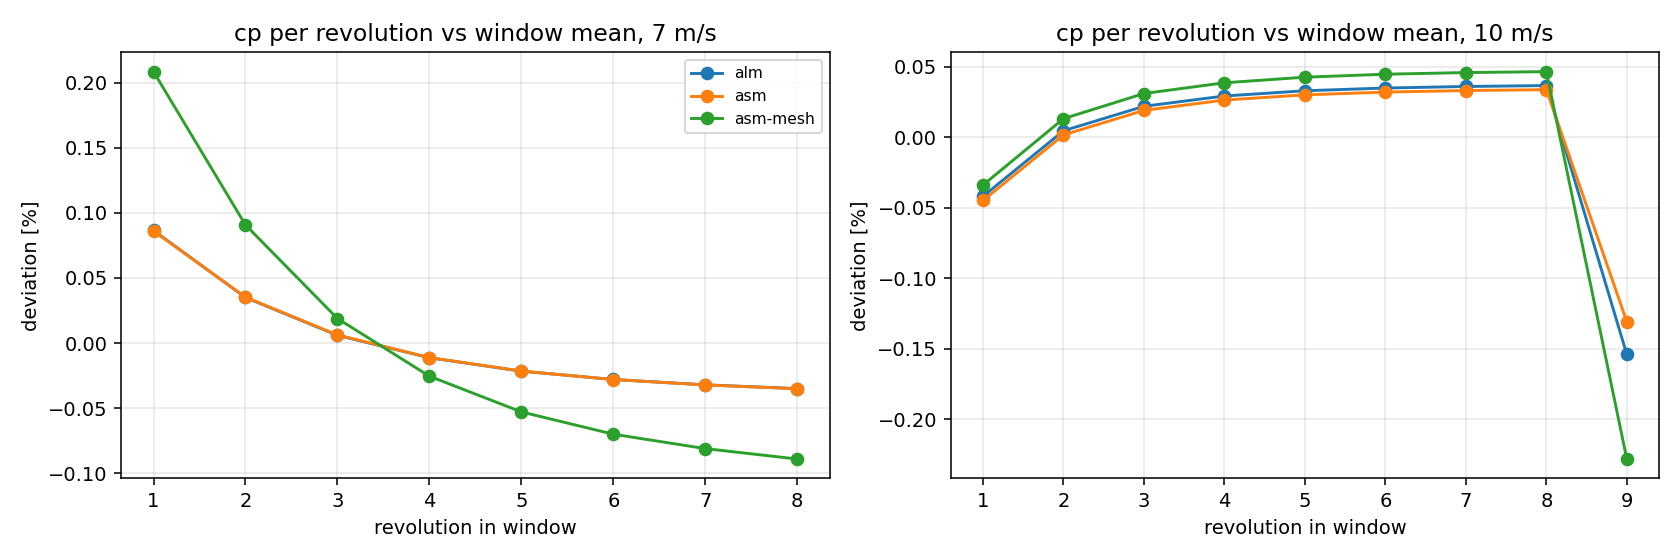
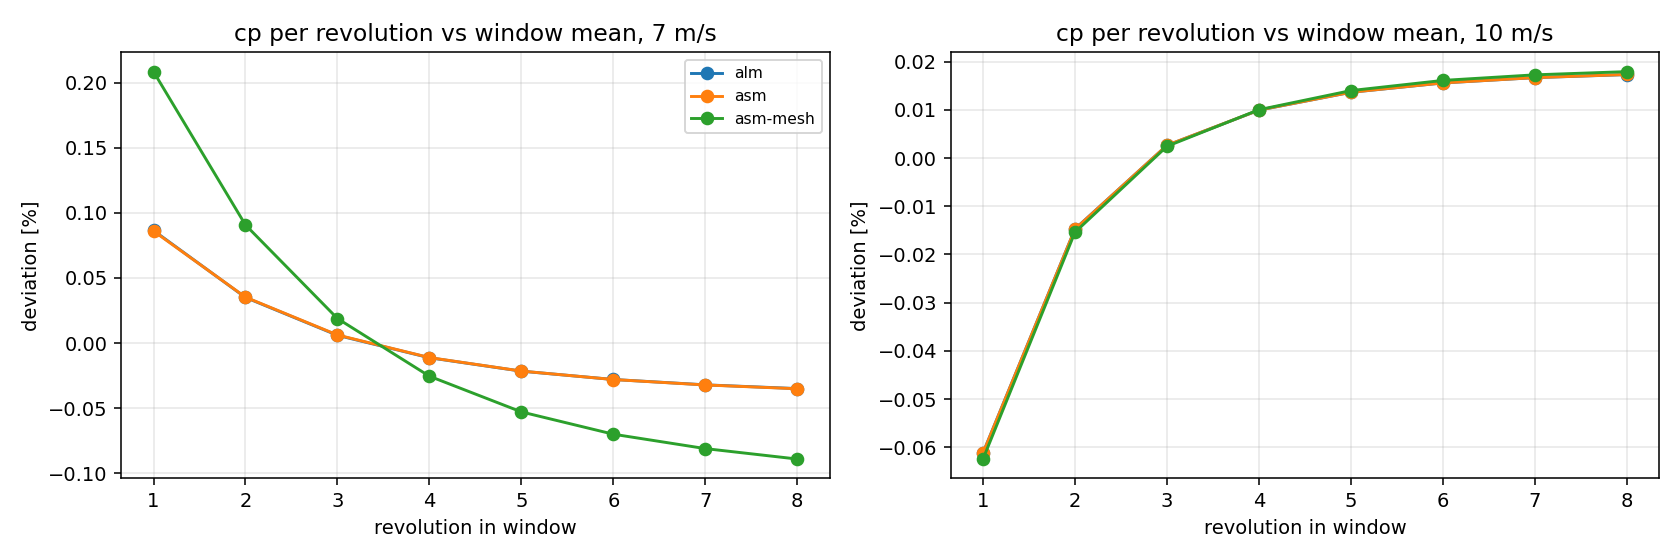
fix(phasevi): drop the trailing partial revolution from the cp/cd drift

diff --git a/turbinesFoam/tests/test_phasevi_compare.py b/turbinesFoam/tests/test_phasevi_compare.py
@@ -505,3 +505,19 @@ def test_asm_mesh_chord_pair_comes_from_elements_not_plane_stations(tmp_path):
         values = metrics["models"]["asm-mesh"]["spanwise"][f"{station:.2f}"]
         assert values[1] == pytest.approx(FIXTURE_CHORD_CT, rel=1e-9)
         assert values[3] == pytest.approx(linear_at(plane_t, station), rel=1e-9)
+
+
+def test_drift_ignores_a_trailing_partial_revolution():
+    """A run that ends a few steps past a revolution boundary must not add a sliver.
+
+    The sliver averages only the last rows, so it looked like a sudden cp drop
+    in the per-revolution drift and inflated the variation.
+    """
+    period = 1.0
+    rows = [{"time": f"{step * 0.01:.2f}", "cp": "0.30", "cd": "0.50"}
+            for step in range(1, 301)]
+    rows += [{"time": f"{3.0 + step * 0.01:.2f}", "cp": "0.10", "cd": "0.20"}
+             for step in range(1, 4)]
+    result = compare.drift_flags(rows, 0.0, period)
+    assert result["cp"]["per_revolution"] == pytest.approx([0.30, 0.30, 0.30])
+    assert result["cp"]["flag"] is False

diff --git a/turbinesFoam/validation/phaseVI/scripts/comparePhaseVI.py b/turbinesFoam/validation/phaseVI/scripts/comparePhaseVI.py
@@ -262,7 +262,12 @@ def drift_flags(rows, start, period):
                 continue
             index = int((time - start) / period)
             per_rev.setdefault(index, []).append(float(row[key]))
-        means = [mean(values) for index, values in sorted(per_rev.items())]
+        chunks = [values for index, values in sorted(per_rev.items())]
+        # A run that ends a few steps past a revolution boundary leaves a
+        # trailing sliver whose mean is not a revolution mean: drop it.
+        if len(chunks) > 1 and len(chunks[-1]) < 0.9 * max(map(len, chunks)):
+            chunks = chunks[:-1]
+        means = [mean(values) for values in chunks]
         means = [value for value in means if value is not None]
         if len(means) < 2:
             result[key] = {"variation": None, "flag": True,
